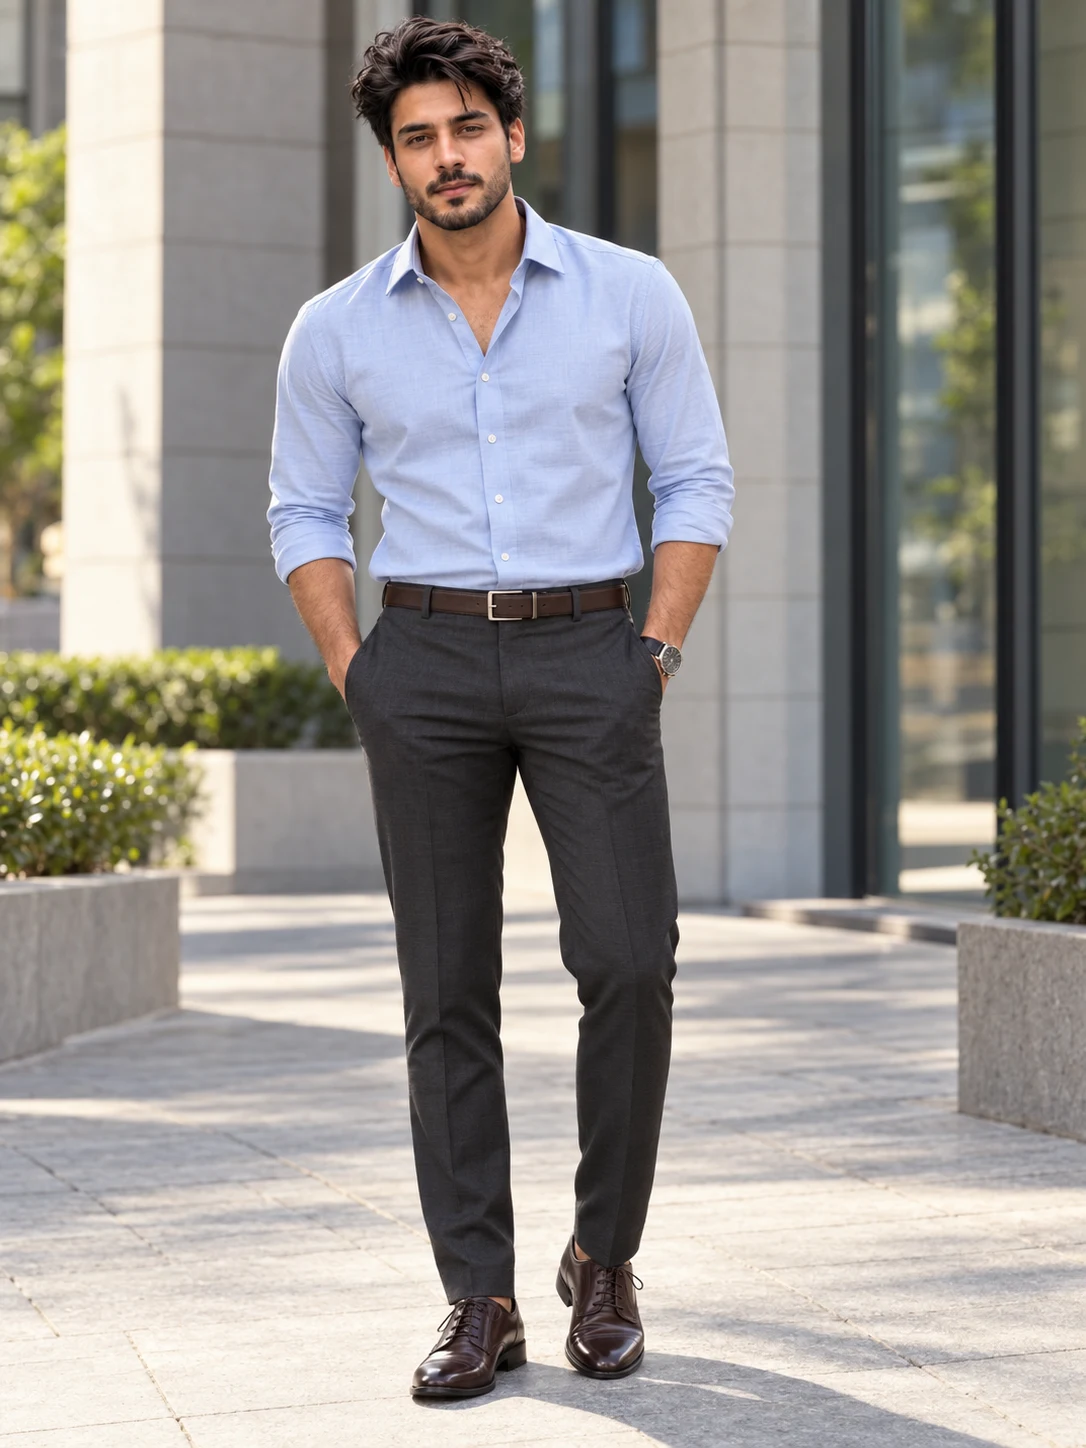
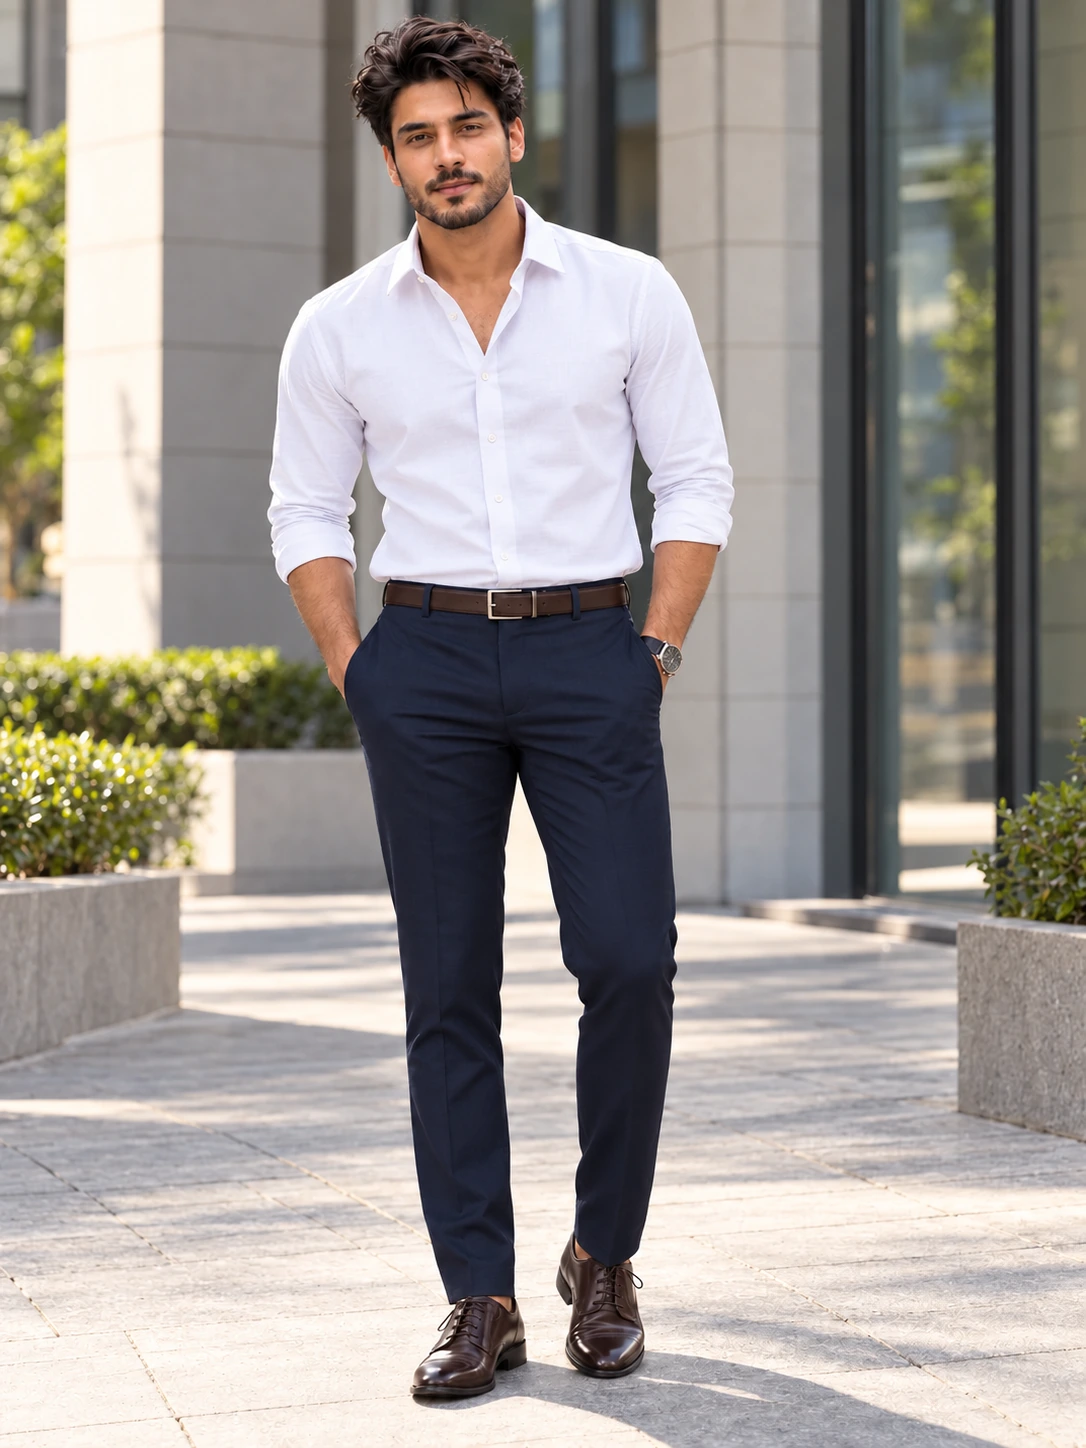
Refresh heroes with glamorous Deeksha and compact searchable listing filters

diff --git a/apps/storefront/src/vanya/views/PlpView.tsx b/apps/storefront/src/vanya/views/PlpView.tsx
@@ -116,6 +116,12 @@ export function PlpView({
   // Mobile filter drawer state
   const [mobileFilterOpen, setMobileFilterOpen] = useState(false);
   const [desktopFilterOpen, setDesktopFilterOpen] = useState(true);
+  const [categorySearch, setCategorySearch] = useState('');
+  const [colourSearch, setColourSearch] = useState('');
+  const [allCategories, setAllCategories] = useState(false);
+  const [allColours, setAllColours] = useState(false);
+  const matchingCategories = categoryFacets.filter(f => f.label.toLowerCase().includes(categorySearch.toLowerCase()));
+  const matchingColours = colourFacets.filter(f => f.label.toLowerCase().includes(colourSearch.toLowerCase()));
 
   // Grid column density (desktop)
   const [gridCols, setGridCols] = useState<3 | 4>(3);
@@ -339,12 +345,15 @@ export function PlpView({
 
             {/* Category Filter */}
             {categoryFacets.length > 0 && (
-              <fieldset>
-                <legend className="font-semibold text-[#2D2722] block mb-2 uppercase tracking-wider text-[11px]">
+              <details open className="group">
+                <summary className="cursor-pointer font-semibold uppercase tracking-wider text-[11px] mb-3">Categories</summary>
+                <input aria-label="Search categories" placeholder="Search categories" value={categorySearch} onChange={e => setCategorySearch(e.target.value)} className="w-full border border-[var(--color-border)] rounded px-3 py-2 mb-3" />
+                <fieldset>
+                <legend className="sr-only">
                   Category
                 </legend>
                 <div className="space-y-1.5">
-                  {categoryFacets.map((cat) => (
+                  {(allCategories || categorySearch ? matchingCategories : matchingCategories.slice(0, 7)).map((cat) => (
                     <label
                       key={cat.value}
                       className="flex items-center gap-2 cursor-pointer hover:text-[#1A1816] text-[#554A40] py-2 px-1 -mx-1 rounded hover:bg-[#FAF7F2]"
@@ -361,16 +370,17 @@ export function PlpView({
                   ))}
                 </div>
               </fieldset>
+              {matchingCategories.length > 7 && !categorySearch && <button type="button" onClick={() => setAllCategories(!allCategories)} className="mt-3 text-[var(--color-primary)]">{allCategories ? 'Show less' : `+ ${matchingCategories.length - 7} more`}</button>}
+              </details>
             )}
 
             {/* Colour Swatches Filter */}
             {colourFacets.length > 0 && (
-              <div className="border-t border-[#EAE3D7] pt-4">
-                <span className="font-semibold text-[#2D2722] block mb-2 uppercase tracking-wider text-[11px]">
-                  Colour Palette
-                </span>
+              <details className="border-t border-[#EAE3D7] pt-4">
+                <summary className="cursor-pointer font-semibold text-[#2D2722] mb-3 uppercase tracking-wider text-[11px]">Colour {selectedColors.length > 0 ? `(${selectedColors.length} selected)` : ''}</summary>
+                <input aria-label="Search colours" placeholder="Search colours" value={colourSearch} onChange={e => setColourSearch(e.target.value)} className="w-full border border-[var(--color-border)] rounded px-3 py-2 mb-3" />
                 <div className="space-y-1.5">
-                  {colourFacets.map((col) => {
+                  {(allColours || colourSearch ? matchingColours : matchingColours.slice(0, 7)).map((col) => {
                     const isSelected = selectedColors.includes(col.value);
                     return (
                       <button
@@ -397,7 +407,8 @@ export function PlpView({
                     );
                   })}
                 </div>
-              </div>
+                {matchingColours.length > 7 && !colourSearch && <button type="button" onClick={() => setAllColours(!allColours)} className="mt-3 text-[var(--color-primary)]">{allColours ? 'Show less' : `+ ${matchingColours.length - 7} more`}</button>}
+              </details>
             )}
 
             {/* In Stock Only Toggle */}
@@ -617,8 +628,8 @@ function MobileFilterSheet({
 
             {/* Colours */}
             {colourFacets.length > 0 && (
-              <fieldset className="border-t border-[#EAE3D7] pt-4">
-                <legend className="font-semibold uppercase tracking-wider text-[11px] block mb-2 pt-4 text-[#1A1816]">
+              <details className="border-t border-[#EAE3D7] pt-4"><summary className="cursor-pointer font-semibold uppercase tracking-wider text-[11px] mb-3">Colour {colours.length > 0 ? `(${colours.length} selected)` : ''}</summary><fieldset>
+                <legend className="sr-only">
                   Colour
                 </legend>
                 <div className="flex flex-wrap gap-2">
@@ -650,7 +661,7 @@ function MobileFilterSheet({
                     );
                   })}
                 </div>
-              </fieldset>
+              </fieldset></details>
             )}
 
             <div className="border-t border-[#EAE3D7] pt-4">

diff --git a/apps/storefront/src/vanya/views/LandingGatewayView.tsx b/apps/storefront/src/vanya/views/LandingGatewayView.tsx
@@ -120,12 +120,12 @@ export function LandingGatewayView({
               <img
                 src={menHeroImage}
                 alt="Modern Indian Menswear"
-                className="w-full h-full object-cover object-[center_top] brightness-[0.82] transition-transform duration-1000 ease-out group-hover:scale-105"
+                className="w-full h-full object-cover object-[center_top] transition-transform duration-1000 ease-out group-hover:scale-105"
               />
             )}
             {/* Ambient Lighting & Shadow Vignette */}
-            <div className="absolute inset-0 bg-gradient-to-t from-black/85 via-black/35 to-black/20" />
-            <div className="absolute inset-0 bg-gradient-to-r from-black/40 via-transparent to-black/30" />
+            <div className="absolute inset-0 bg-gradient-to-t from-black/75 via-black/10 to-transparent" />
+            <div className="absolute inset-0 bg-gradient-to-r from-black/15 via-transparent to-transparent" />
           </div>
 
           {/* Men's Content Overlay */}
@@ -174,12 +174,12 @@ export function LandingGatewayView({
               <img
                 src={womenHeroImage}
                 alt="Modern Indian Womenswear"
-                className="w-full h-full object-cover object-[center_top] brightness-[0.82] transition-transform duration-1000 ease-out group-hover:scale-105"
+                className="w-full h-full object-cover object-[center_top] transition-transform duration-1000 ease-out group-hover:scale-105"
               />
             )}
             {/* Ambient Lighting & Shadow Vignette */}
-            <div className="absolute inset-0 bg-gradient-to-t from-black/85 via-black/35 to-black/20" />
-            <div className="absolute inset-0 bg-gradient-to-l from-black/40 via-transparent to-black/30" />
+            <div className="absolute inset-0 bg-gradient-to-t from-black/75 via-black/10 to-transparent" />
+            <div className="absolute inset-0 bg-gradient-to-l from-black/15 via-transparent to-transparent" />
           </div>
 
           {/* Women's Content Overlay */}

diff --git a/apps/storefront/src/vanya/views/HomeView.tsx b/apps/storefront/src/vanya/views/HomeView.tsx
@@ -93,11 +93,11 @@ export function HomeView({
             <img
               src={editorial.hero}
               alt={isMen ? 'VANYA Men - Business Casual & Daily Wear' : 'VANYA Women - Daily, Work & Partywear'}
-              className="w-full h-full object-cover object-[68%_top] lg:object-[center_top] brightness-[0.80]"
+              className="w-full h-full object-cover object-[68%_top] lg:object-[center_top]"
             />
           )}
           {/* Subtle gradient vignette */}
-          <div className="absolute inset-0 bg-gradient-to-t from-black/85 via-black/35 to-black/20 sm:bg-gradient-to-r sm:from-black/85 sm:via-black/45 sm:to-transparent" />
+          <div className="absolute inset-0 bg-gradient-to-t from-black/85 via-black/35 to-black/20 sm:bg-gradient-to-r sm:from-black/70 sm:via-black/20 sm:to-transparent" />
         </div>
 
         {/* Hero Content */}
@@ -233,11 +233,11 @@ export function HomeView({
               <img
                 src={editorial.feature}
                 alt="Tradition Tailored for Today"
-                className="w-full h-full object-cover object-[72%_20%] lg:object-[center_20%] brightness-[0.78]"
+                className="w-full h-full object-cover object-[72%_20%] lg:object-[center_20%]"
               />
             )}
             {/* Ambient gradients */}
-            <div className="absolute inset-0 bg-gradient-to-r from-black/85 via-black/45 to-transparent" />
+            <div className="absolute inset-0 bg-gradient-to-r from-black/70 via-black/20 to-transparent" />
           </div>
 
           <div className="relative z-10 p-8 sm:p-14 lg:p-18 max-w-xl text-white space-y-4">

diff --git a/docs/deployment/HERO_FILTER_REFRESH.md b/docs/deployment/HERO_FILTER_REFRESH.md
@@ -1,0 +1,13 @@
+# Hero and compact filter refresh — 9 October 2026
+
+Requested: replace hero photography and make listing filters compact using the supplied Myntra screenshots. The follow-up specifically replaces Heena with glamorous Deeksha for the women’s entry hero and homepage hero.
+
+Women’s entry and homepage hero use Deeksha’s supplied `Deeksha_ Editorial Model Character Sheet.png` as identity authority. Both wear an emerald satin asymmetric one-shoulder midi dress; the portrait and landscape share the styling. The women’s feature uses a coral embroidered kurti. The men’s entry uses Aryan in a white shirt and navy trousers. Existing public asset URLs are replaced, including both women’s homepage hero filenames. CMS banner identities and links remain unchanged; gateway model metadata now names Deeksha.
+
+Generated with the built-in image generation tool. Prompt set: preserve the reference model’s exact adult face, complexion and body proportions; solo photorealistic premium Indian fashion; bright pale stone courtyard; natural skin and garment texture; no text, logos or dark overlay. Deeksha glamour: emerald opaque satin one-shoulder midi dress, gold earrings and nude heels, relaxed three-quarter posture, soft confident expression. Portrait: centered with headroom and lower-left copy space. Landscape: model on the right, clear architectural space on the left. Aryan: white Oxford shirt, navy trousers, brown belt and lace-up shoes. Feature: coral embroidered cotton kurti with ivory trousers, clear left copy area.
+
+Removed image-level brightness reduction and reduced gradients on hero and feature sections. A darker lower area remains for white text contrast.
+
+Desktop filters: Categories initially expanded, Colour initially collapsed, native keyboard-accessible disclosure headings, seven initial options, search and more/less controls. Selected Colour count is visible in the collapsed heading. URL-backed category/colour filtering, real facet counts, reset and pagination remain in place. Mobile Colour is also collapsed initially; the existing Apply workflow remains. This change does not introduce brand, price or discount filtering controls.
+
+Validation: storefront TypeScript check and all 21 existing storefront unit tests passed; campaign manifest validation passed. Visual inspection of generated assets completed. Browser interaction verification could not run because the Chromium download returned an invalid archive in this environment. No storefront deployment or local desktop session restart was performed here. Pull and restart/rebuild the desktop preview to load the changes; existing banner URLs require no CMS update.
